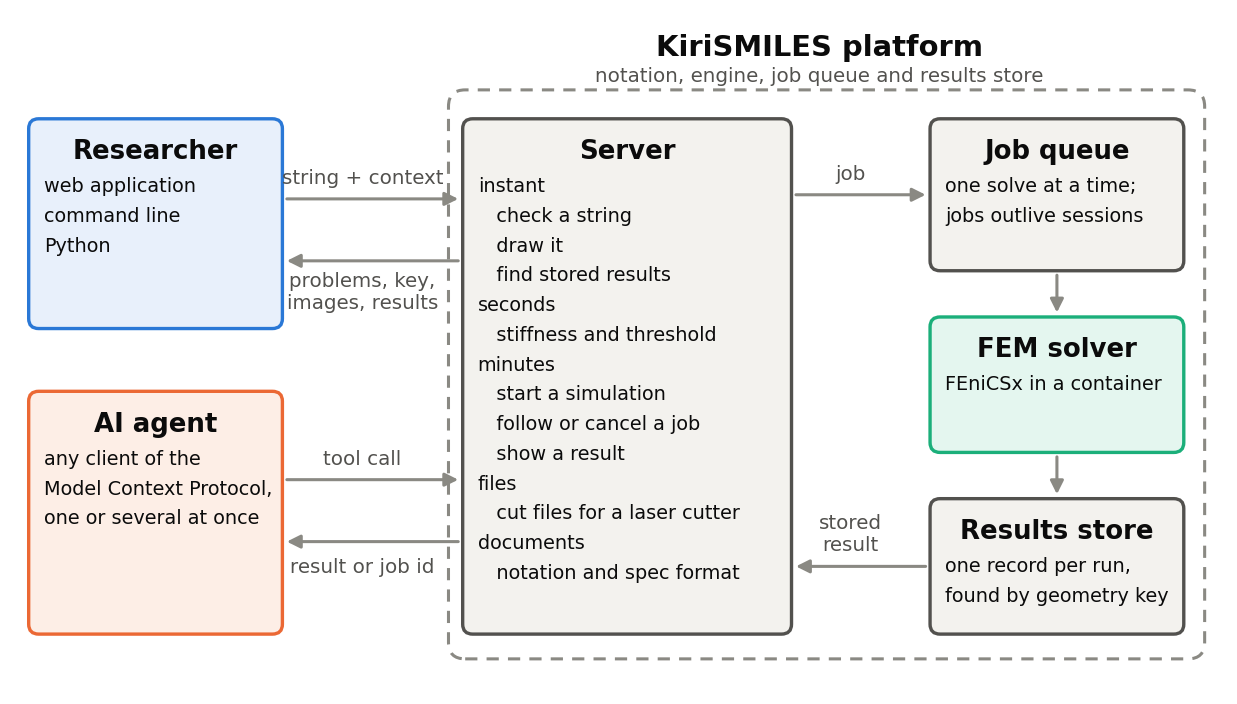
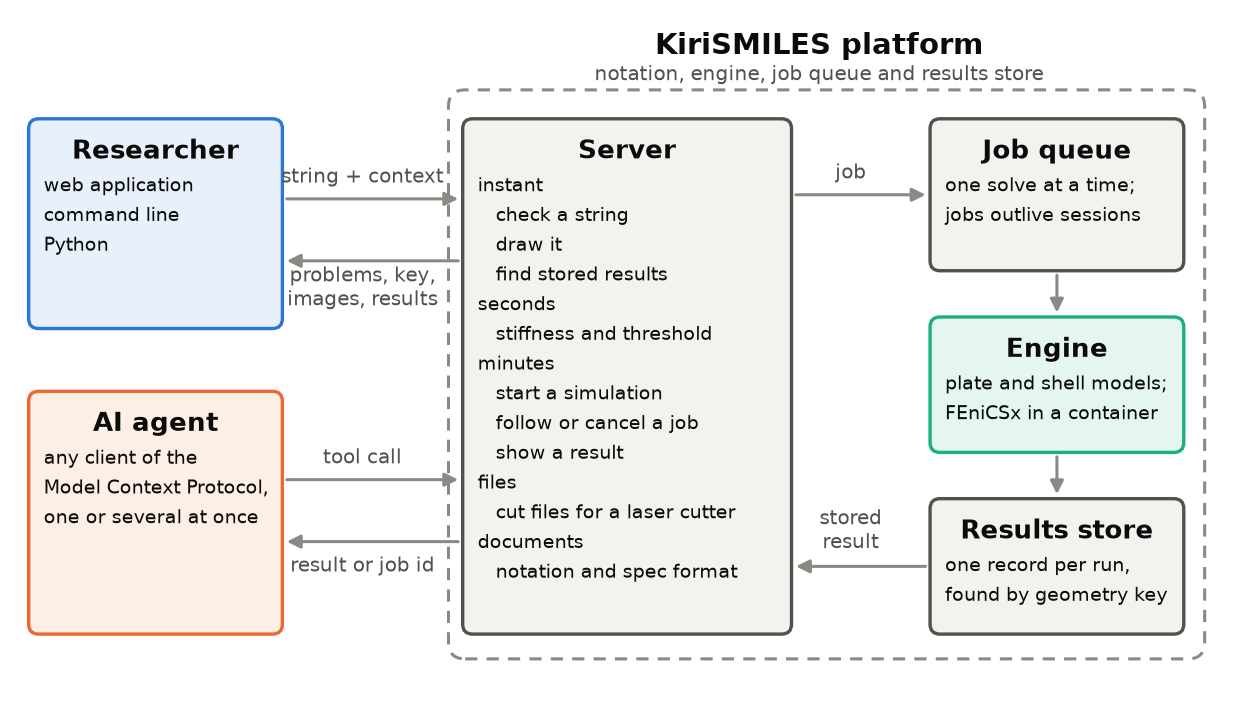
Figures: call our simulator "the engine", not FEniCS or "FEM solver"
The MuJoCo comparison legend reads "KiriSMILES engine" and the server
diagram's box "Engine" (plate and shell models; FEniCSx in a container),
matching the paper's naming. Figures redrawn from stored data.

diff --git a/scripts/plot_server_schematic.py b/scripts/plot_server_schematic.py
@@ -43,7 +43,7 @@ def main():
     box(ax, 0.1, 0.5, 3.0, 2.9, "AI agent", ["any client of the", "Model Context Protocol,",
                                              "one or several at once"], ORANGE)
 
-    # the platform: server, queue, solver and store inside one frame
+    # the platform: server, queue, engine and store inside one frame
     ax.add_patch(FancyBboxPatch((5.13, 0.2), 9.02, 6.85, boxstyle="round,pad=0.02,rounding_size=0.2",
                                 fc="none", ec=LINE, lw=1.0, ls=(0, (4, 3))))
     ax.text(9.55, 7.42, "KiriSMILES platform", ha="center", va="bottom", fontsize=9.5,
@@ -61,7 +61,7 @@ def main():
 
     # back end
     box(ax, 10.9, 4.9, 3.0, 1.8, "Job queue", ["one solve at a time;", "jobs outlive sessions"], MUTED)
-    box(ax, 10.9, 2.7, 3.0, 1.6, "FEM solver", ["FEniCSx in a container"], AQUA)
+    box(ax, 10.9, 2.7, 3.0, 1.6, "Engine", ["plate and shell models;", "FEniCSx in a container"], AQUA)
     box(ax, 10.9, 0.5, 3.0, 1.6, "Results store", ["one record per run,", "found by geometry key"], MUTED)
 
     # arrows: requests go right (upper), answers come back (lower)

diff --git a/scripts/mujoco_check.py b/scripts/mujoco_check.py
@@ -164,8 +164,8 @@ def plot(a: argparse.Namespace) -> None:
         z = np.load(a.fenics)
         D, F, uz = np.r_[0, z["Delta"]], np.r_[0, z["F"]], np.r_[0, z["uz_max"]]
         k = D <= Dlim
-        ax[0].plot(100 * D[k] / a.L, F[k], "o-", color="k", ms=3, lw=1.2, label="FEniCS (KiriSMILES shell)")
-        ax[1].plot(100 * D[k] / a.L, uz[k], "o-", color="k", ms=3, lw=1.2, label="FEniCS")
+        ax[0].plot(100 * D[k] / a.L, F[k], "o-", color="k", ms=3, lw=1.2, label="KiriSMILES engine (KL shell)")
+        ax[1].plot(100 * D[k] / a.L, uz[k], "o-", color="k", ms=3, lw=1.2, label="KiriSMILES engine")
     if mj is not None:
         D, F, w = mj
         ax[0].plot(100 * D / a.L, F, "s--", color="#D55E00", ms=3.5, lw=1.2, label="MuJoCo (same design, 2D flex)")
